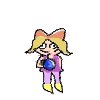
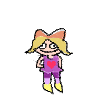
closes #60, closes #61, closes #58, closes #43, closes #25, closes #5.. there is a reload time now.

Changed region(s): [[0.39, 0.45, 0.63, 0.81]]

diff --git a/test.py b/test.py
@@ -167,7 +167,10 @@ class PinkBird(Enemy):
         self.value = 3
 
 class Projectile:
+    last_time = 0
+
     def __init__(self, x, y, image, my_id): #add index parameter?
+        global last_time
         '''
         Projectile differs from Enemy in that Projectile is directly passed a
         Pyglet image whereas Enemy is passed an image name.
@@ -472,6 +475,28 @@ def add_projectile_0(x, y):
     bomb.sprite.batch = levels[level_number].projectile_batch
     bomb.update_velocity()
 
+def can_fire():
+    #cur_time = get_time()
+    #print(cur_time, Projectile.last_time, cur_time-Projectile.last_time, RELOAD_TIME)
+    return get_time() - Projectile.last_time >= RELOAD_TIME
+
+def auto_character_change(dt):
+    ''' AUTO-CHANGE CHARACTER SKINS '''
+    if can_fire() and cur_char[:3] in ["atk", "def"]:
+        if cur_char[:3] == "atk":
+            ''' make it so that i don't have to create an image each frame THIS IS SO INEFFICIENT'''
+            sprite.image = pyglet.resource.image(cur_char[:3]+str(atk_equip)+"i.png")
+        elif cur_char[:3] == "def":
+            sprite.image = pyglet.resource.image(cur_char[:3]+str(def_equip)+"i.png")
+    else:
+        if cur_char[:3] == "atk":
+            sprite.image = pyglet.resource.image(cur_char[:3]+str(atk_equip)+".png")
+        elif cur_char[:3] == "def":
+            sprite.image = pyglet.resource.image(cur_char[:3]+str(def_equip)+".png")
+        elif cur_char[:3] == "vac":
+            sprite.image = pyglet.resource.image(cur_char[:3]+str(vac_equip)+".png")
+clock.schedule(auto_character_change)
+
 def add_projectile(x, y):
     #print("-- ({}, {})".format(x, y))
     ''' CURRENTLY THIS ONLY USES THE X-VALUE TO DETERMINE SAFE-SPACE COLLISIONS '''
@@ -484,6 +509,10 @@ def add_projectile(x, y):
     HALF_WIDTH = const.WINDOW_WIDTH/2 - object_width/2
     if (y - const.BOTTOM_BORDER)**2 + (x - HALF_WIDTH)**2 <= const.DANGER_RADIUS/4:
         return
+    if not can_fire():
+        return
+    Projectile.last_time = get_time()
+    print(Projectile.last_time)
     if cur_char[3] == "0":
         add_projectile_0(x, y)
 
@@ -738,6 +767,9 @@ fight_player = pyglet.media.Player()
 fight_player.queue(fight_music)
 fight_player.eos_action = player.EOS_LOOP
 fight_player.play()
+
+RELOAD_TIME = 500
+
 
 
 pyglet.app.run()
